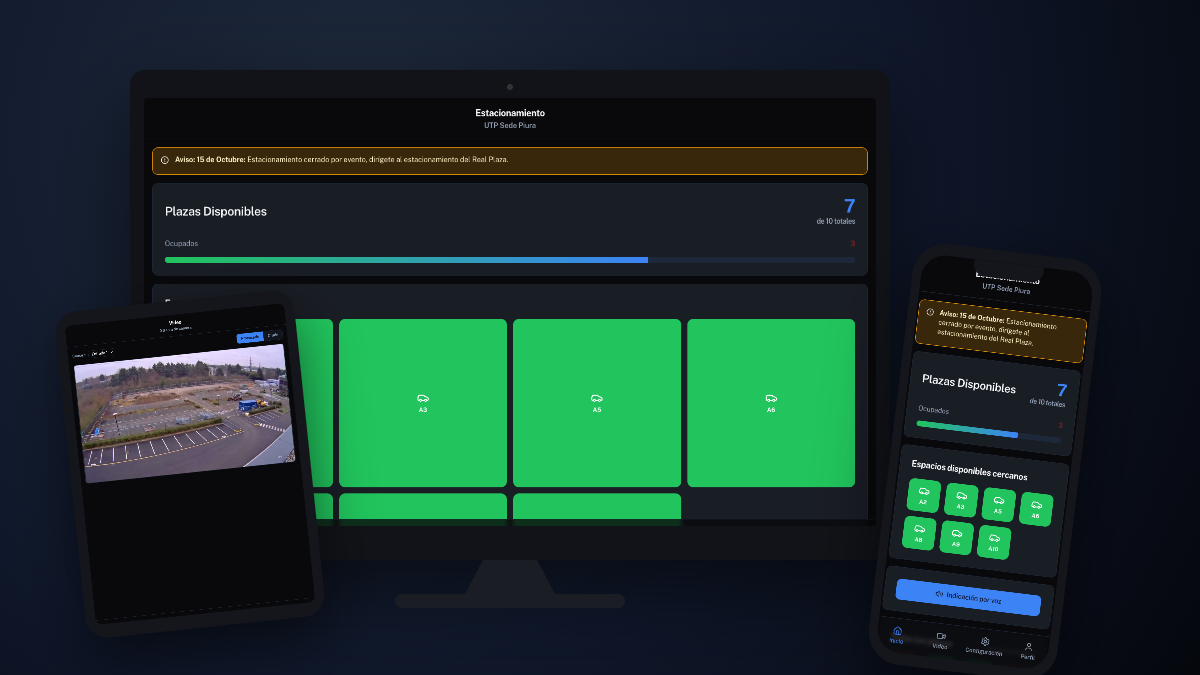
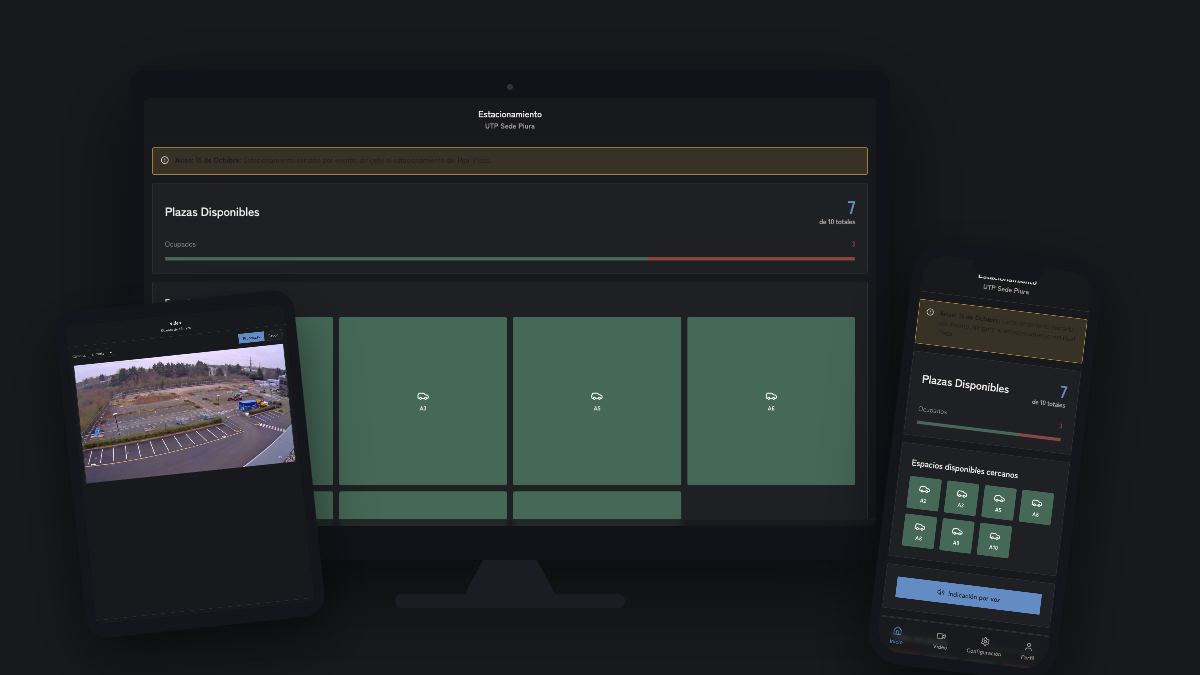
feat(frontend): rediseno minimalista sumi-e, sin gradientes, oscuro por defecto
Paleta HSL nueva en index.css (sumi oscuro por defecto + washi claro),
contraste WCAG AA verificado numericamente para cada par color/texto.
Radio de borde reducido (0.25rem) y tipografia Zen Kaku Gothic New
(solo su corte latino, sin glifos japoneses).

Se elimina el unico gradiente real del frontend (barra de progreso de
OccupancySummary) por dos bloques de color solido adyacentes que
conservan la proporcion libre/ocupado sin degradado.

ThemeProvider ahora fuerza dark por defecto (antes contradecia el
class="dark" ya hardcodeado en index.html al usar defaultTheme=system).

Se regenera docs/hero-banner.png con capturas del nuevo diseno.
Principios de usabilidad y citas bibliograficas documentados en la
wiki: Design-System.

diff --git a/ui/frontend/src/index.css b/ui/frontend/src/index.css
@@ -3,69 +3,69 @@
 @tailwind utilities;
 
 @layer base {
-  /* Light theme (default) */
+  /* "Washi" (light) -- paper background, ink text, ai-iro indigo accent */
   :root {
-    --background: 0 0% 100%;
-    --foreground: 222 47% 11%;
-    --card: 0 0% 100%;
-    --card-foreground: 222 47% 11%;
-    --popover: 0 0% 100%;
-    --popover-foreground: 222 47% 11%;
-    --primary: 217 91% 60%;
-    --primary-foreground: 210 40% 98%;
-    --secondary: 210 40% 96%;
-    --secondary-foreground: 222 47% 11%;
-    --muted: 210 40% 96%;
-    --muted-foreground: 215 16% 47%;
-    --accent: 210 40% 96%;
-    --accent-foreground: 222 47% 11%;
-    --destructive: 0 84% 60%;
-    --destructive-foreground: 210 40% 98%;
-    --success: 142 71% 45%;
-    --success-foreground: 144 61% 15%;
-    --warning: 38 92% 50%;
-    --warning-foreground: 20 14% 15%;
-    --border: 214 32% 91%;
-    --input: 214 32% 91%;
-    --ring: 217 91% 60%;
-    --radius: 0.75rem;
-    --chart-1: 221 83% 53%;
-    --chart-2: 142 71% 45%;
-    --chart-3: 197 37% 24%;
-    --chart-4: 43 74% 66%;
-    --chart-5: 27 87% 67%;
+    --background: 40 25% 97%;
+    --foreground: 220 15% 14%;
+    --card: 40 20% 99%;
+    --card-foreground: 220 15% 14%;
+    --popover: 40 20% 99%;
+    --popover-foreground: 220 15% 14%;
+    --primary: 215 50% 32%;
+    --primary-foreground: 40 25% 97%;
+    --secondary: 40 15% 92%;
+    --secondary-foreground: 220 15% 14%;
+    --muted: 40 15% 93%;
+    --muted-foreground: 220 8% 40%;
+    --accent: 40 15% 92%;
+    --accent-foreground: 220 15% 14%;
+    --destructive: 6 45% 38%;
+    --destructive-foreground: 40 25% 97%;
+    --success: 150 22% 30%;
+    --success-foreground: 40 25% 97%;
+    --warning: 38 55% 34%;
+    --warning-foreground: 40 25% 97%;
+    --border: 40 12% 86%;
+    --input: 40 12% 86%;
+    --ring: 215 50% 32%;
+    --radius: 0.25rem;
+    --chart-1: 215 50% 32%;
+    --chart-2: 150 22% 30%;
+    --chart-3: 38 55% 34%;
+    --chart-4: 6 45% 38%;
+    --chart-5: 220 8% 55%;
   }
 
-  /* Dark theme overrides */
+  /* "Sumi" (dark, default) -- ink background, washi text, ai-iro indigo accent */
   .dark {
-    --background: 240 10% 3.9%;
-    --foreground: 210 40% 98%;
-    --card: 217 19% 12%;
-    --card-foreground: 210 40% 98%;
-    --popover: 217 19% 12%;
-    --popover-foreground: 210 40% 98%;
-    --primary: 217 91% 60%;
-    --primary-foreground: 222 47% 11%;
-    --secondary: 217 33% 17%;
-    --secondary-foreground: 210 40% 98%;
-    --muted: 217 33% 17%;
-    --muted-foreground: 215 20% 65%;
-    --accent: 217 33% 17%;
-    --accent-foreground: 210 40% 98%;
-    --destructive: 0 63% 31%;
-    --destructive-foreground: 210 40% 98%;
-    --success: 142 71% 45%;
-    --success-foreground: 144 61% 20%;
-    --warning: 38 92% 50%;
-    --warning-foreground: 48 96% 89%;
-    --border: 217 33% 17%;
-    --input: 217 33% 17%;
-    --ring: 217 91% 60%;
-    --chart-1: 217 91% 60%;
-    --chart-2: 173 58% 39%;
-    --chart-3: 197 37% 24%;
-    --chart-4: 43 74% 66%;
-    --chart-5: 27 87% 67%;
+    --background: 220 8% 10%;
+    --foreground: 40 20% 92%;
+    --card: 220 8% 13%;
+    --card-foreground: 40 20% 92%;
+    --popover: 220 8% 13%;
+    --popover-foreground: 40 20% 92%;
+    --primary: 215 45% 58%;
+    --primary-foreground: 220 15% 8%;
+    --secondary: 220 8% 18%;
+    --secondary-foreground: 40 20% 92%;
+    --muted: 220 8% 16%;
+    --muted-foreground: 40 8% 65%;
+    --accent: 220 8% 18%;
+    --accent-foreground: 40 20% 92%;
+    --destructive: 6 40% 40%;
+    --destructive-foreground: 40 20% 96%;
+    --success: 150 20% 34%;
+    --success-foreground: 40 20% 96%;
+    --warning: 38 45% 52%;
+    --warning-foreground: 220 15% 10%;
+    --border: 220 8% 20%;
+    --input: 220 8% 20%;
+    --ring: 215 45% 58%;
+    --chart-1: 215 45% 58%;
+    --chart-2: 150 20% 34%;
+    --chart-3: 38 45% 52%;
+    --chart-4: 6 40% 40%;
+    --chart-5: 220 8% 55%;
   }
 }
 
@@ -96,5 +96,3 @@
     @apply text-xl sm:text-2xl;
   }
 }
-
-/* Duplicate base block removed to avoid overrides */

diff --git a/ui/frontend/src/components/parking/OccupancySummary.tsx b/ui/frontend/src/components/parking/OccupancySummary.tsx
@@ -38,15 +38,21 @@ export default function OccupancySummary({ summary }: OccupancySummaryProps) {
             <span className="text-muted-foreground">Ocupados</span>
             <span className="font-bold text-destructive">{summary.occupied}</span>
           </div>
-          <div className="w-full bg-muted rounded-full h-3 overflow-hidden">
+          <div
+            className="w-full flex h-2 overflow-hidden border border-border"
+            role="progressbar"
+            aria-valuenow={summary.percentage}
+            aria-valuemin={0}
+            aria-valuemax={100}
+            aria-label={`${summary.percentage}% de espacios disponibles`}
+          >
             <div
-              className="h-full bg-gradient-to-r from-success to-primary transition-all duration-500"
+              className="h-full bg-success transition-all duration-500"
               style={{ width: `${summary.percentage}%` }}
-              role="progressbar"
-              aria-valuenow={summary.percentage}
-              aria-valuemin={0}
-              aria-valuemax={100}
-              aria-label={`${summary.percentage}% de espacios disponibles`}
+            />
+            <div
+              className="h-full bg-destructive transition-all duration-500"
+              style={{ width: `${100 - summary.percentage}%` }}
             />
           </div>
         </div>

diff --git a/ui/frontend/index.html b/ui/frontend/index.html
@@ -6,10 +6,10 @@
     <title>findParking - Sistema Inteligente de Estacionamiento</title>
     <meta name="description" content="Sistema inteligente de gestión de estacionamientos en tiempo real con tecnología de visión artificial" />
     <meta name="author" content="findParking" />
-    <meta name="theme-color" content="#0d1117" />
+    <meta name="theme-color" content="#17191c" />
     <link rel="preconnect" href="https://fonts.googleapis.com" />
     <link rel="preconnect" href="https://fonts.gstatic.com" crossorigin />
-    <link href="https://fonts.googleapis.com/css2?family=Public+Sans:wght@400;500;600;700;800;900&display=swap" rel="stylesheet" />
+    <link href="https://fonts.googleapis.com/css2?family=Zen+Kaku+Gothic+New:wght@400;500;700;900&display=swap" rel="stylesheet" />
 
     <meta property="og:title" content="findParking - Sistema Inteligente de Estacionamiento" />
     <meta property="og:description" content="Sistema inteligente de gestión de estacionamientos en tiempo real" />

diff --git a/ui/frontend/src/pages/Register.tsx b/ui/frontend/src/pages/Register.tsx
@@ -64,8 +64,8 @@ export default function Register() {
     <div className="min-h-screen bg-background flex items-center justify-center p-4">
       <Card className="w-full max-w-md">
         <CardHeader className="space-y-3 text-center">
-          <div className="mx-auto w-16 h-16 bg-primary/20 rounded-full flex items-center justify-center">
-            <ParkingCircle className="h-10 w-10 text-primary" />
+          <div className="mx-auto w-16 h-16 rounded-full border-2 border-primary flex items-center justify-center">
+            <ParkingCircle className="h-9 w-9 text-primary" />
           </div>
           <CardTitle className="text-2xl">Crear cuenta</CardTitle>
           <CardDescription>

diff --git a/ui/frontend/src/pages/Login.tsx b/ui/frontend/src/pages/Login.tsx
@@ -62,8 +62,8 @@ export default function Login() {
     <div className="min-h-screen bg-background flex items-center justify-center p-4">
       <Card className="w-full max-w-md">
         <CardHeader className="space-y-3 text-center">
-          <div className="mx-auto w-16 h-16 bg-primary/20 rounded-full flex items-center justify-center">
-            <ParkingCircle className="h-10 w-10 text-primary" />
+          <div className="mx-auto w-16 h-16 rounded-full border-2 border-primary flex items-center justify-center">
+            <ParkingCircle className="h-9 w-9 text-primary" />
           </div>
           <CardTitle className="text-2xl">findParking</CardTitle>
           <CardDescription>

diff --git a/ui/frontend/src/components/parking/ParkingSpotGrid.tsx b/ui/frontend/src/components/parking/ParkingSpotGrid.tsx
@@ -33,7 +33,7 @@ export default function ParkingSpotGrid({ spots, limit }: ParkingSpotGridProps) 
                 'flex flex-col items-center justify-center rounded-lg p-3 aspect-square transition-all',
                 isOccupied
                   ? 'bg-destructive text-destructive-foreground'
-                  : 'bg-success text-white'
+                  : 'bg-success text-success-foreground'
               )}
               role="status"
               aria-label={`Espacio ${spot.id}: ${isOccupied ? 'ocupado' : 'libre'}`}

diff --git a/ui/frontend/src/pages/Profile.tsx b/ui/frontend/src/pages/Profile.tsx
@@ -57,7 +57,7 @@ export default function Profile() {
       <main className="p-4 space-y-6">
         <div className="flex flex-col items-center gap-4">
           <div className="relative">
-            <Avatar className="h-28 w-28 border-4 border-primary">
+            <Avatar className="h-28 w-28 border-2 border-primary">
               <AvatarImage src={user?.avatar} alt={user?.name} />
               <AvatarFallback className="text-2xl font-bold bg-primary/20">
                 {user?.name ? getInitials(user.name) : 'U'}

diff --git a/ui/frontend/src/main.tsx b/ui/frontend/src/main.tsx
@@ -4,7 +4,7 @@ import "./index.css";
 import { ThemeProvider } from "next-themes";
 
 createRoot(document.getElementById("root")!).render(
-	<ThemeProvider attribute="class" defaultTheme="system" enableSystem storageKey="findparking-theme">
+	<ThemeProvider attribute="class" defaultTheme="dark" enableSystem={false} storageKey="findparking-theme">
 		<App />
 	</ThemeProvider>
 );

diff --git a/ui/frontend/tailwind.config.ts b/ui/frontend/tailwind.config.ts
@@ -64,7 +64,7 @@ export default {
         },
       },
       fontFamily: {
-        sans: ["Public Sans", "system-ui", "sans-serif"],
+        sans: ["Zen Kaku Gothic New", "system-ui", "sans-serif"],
       },
       borderRadius: {
         lg: "var(--radius)",
